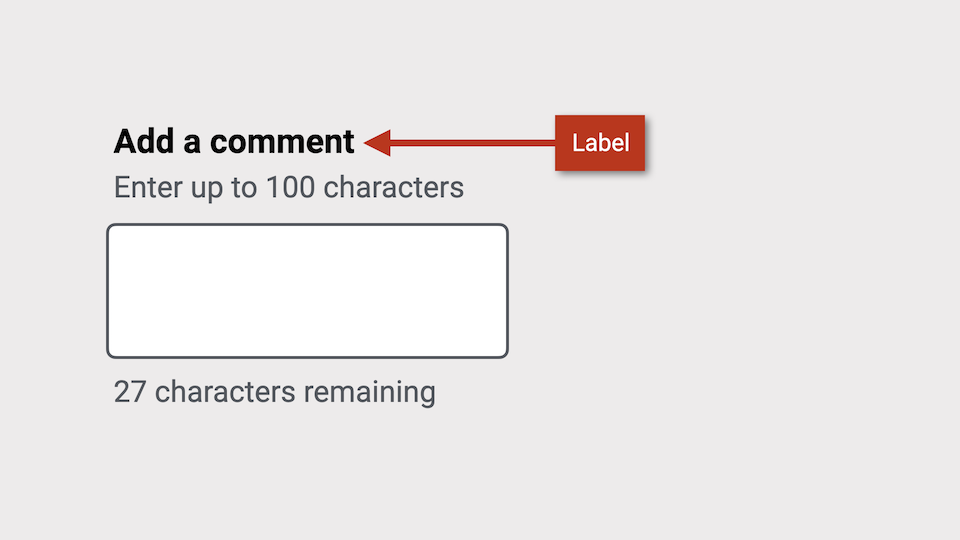
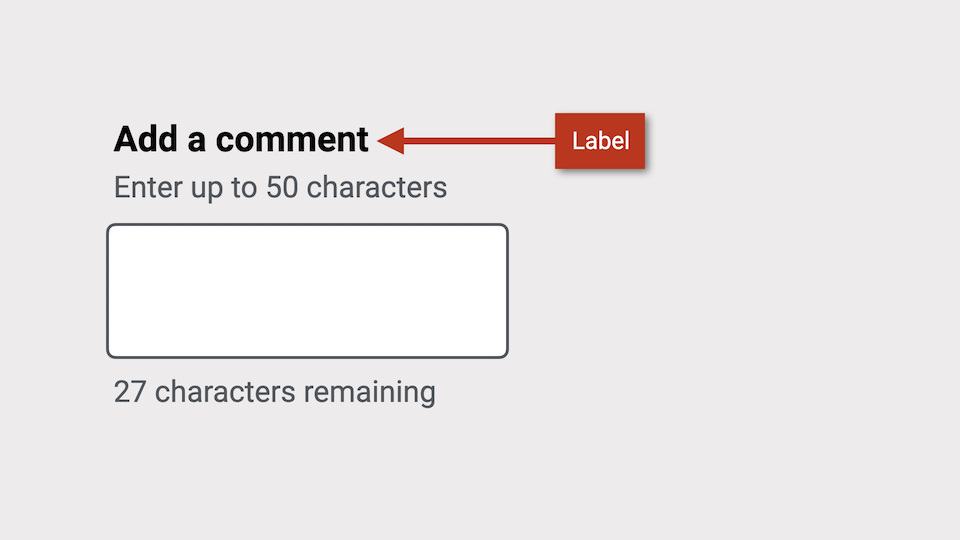
Adjust all

Changed region(s): [[0.125, 0.2074, 0.6875, 0.3259], [0.2812, 0.3259, 0.5, 0.3852]]

diff --git a/2024-accessu.html b/2024-accessu.html
@@ -229,27 +229,23 @@
           </section>
 
           <section data-background="#EDEBEB">
-            <p>2. The component is <b>easy to use</b>.</p>
+            <p>2. All labels, instructions and error messages are <b>meaningful</b>.</p>
           </section>
 
           <section data-background="#EDEBEB">
-            <p>3. All labels, instructions and error messages are <b>meaningful</b>.</p>
+            <p>3. All labels, instructions and error messages are <b>persistent</b>.</p>
           </section>
 
           <section data-background="#EDEBEB">
-            <p>4. All labels, instructions and error messages are <b>persistent</b>.</p>
+            <p>4. If users make a mistake, they can <b>recover quickly</b>.</p>
           </section>
 
           <section data-background="#EDEBEB">
-            <p>5. If users make a mistake, they can <b>recover quickly</b>.</p>
+            <p>5. Users are provided with feedback on <b>the number of characters remaining</b>.</p>
           </section>
 
           <section data-background="#EDEBEB">
-            <p>6. Users are provided with feedback on <b>the number of characters remaining</b>.</p>
-          </section>
-
-          <section data-background="#EDEBEB">
-            <p>7. Users are provided with feedback <b>when the character number has been exceeded</b>.</p>
+            <p>6. Users are provided with feedback <b>when the character number has been exceeded</b>.</p>
           </section>
 
           <section data-background="#EDEBEB">
@@ -473,7 +469,7 @@
   Add a comment
 &lt;/label&gt;
 <span class="codeHighlight">&lt;span class="help-text"&gt;
-  Enter up to 100 characters
+  Enter up to 50 characters
 &lt;/span&gt;</span></code></pre>
           </section>
 
@@ -487,7 +483,7 @@
   Add a comment
 &lt;/label&gt;
 &lt;span class="help-text"&gt;
-  Enter up to 100 characters
+  Enter up to 50 characters
 &lt;/span&gt;
 <span class="codeHighlight">&lt;textarea class="input"&gt;
 &lt;/textarea&gt;</span></code></pre>
@@ -503,7 +499,7 @@
   Add a comment
 &lt;/label&gt;
 &lt;span class="help-text"&gt;
-  Enter up to 100 characters
+  Enter up to 50 characters
 &lt;/span&gt;
 &lt;textarea class="input" <span class="codeHighlight">id="b1"</span>&gt;
 &lt;/textarea&gt;</code></pre>
@@ -523,7 +519,7 @@
   Add a comment
 &lt;/label&gt;
 &lt;span class="help-text" <span class="codeHighlight">id="a1"</span>&gt;
-  Enter up to 100 characters
+  Enter up to 50 characters
 &lt;/span&gt;
 &lt;textarea class="input" id="b1" <span class="codeHighlight">aria-describedby="a1"</span>&gt;
 &lt;/textarea&gt;</code></pre>
@@ -546,10 +542,10 @@
   Add a comment
 &lt;/label&gt;
 &lt;span class="help-text" id="a1"&gt;
-  Enter up to 100 characters
+  Enter up to 50 characters
 &lt;/span&gt;
 &lt;textarea class="input" id="b1" aria-describedby="a1"
-  <span class="codeHighlight">maxlength="100"</span>&gt;
+  <span class="codeHighlight">maxlength="50"</span>&gt;
 &lt;/textarea&gt;</code></pre>
           </section>
 
@@ -579,7 +575,7 @@
   Add a comment
 &lt;/label&gt;
 &lt;span class="help-text" id="a1"&gt;
-  Enter up to 100 characters
+  Enter up to 50 characters
 &lt;/span&gt;
 &lt;textarea class="input" id="b1" aria-describedby="a1"&gt;
 &lt;/textarea&gt;
@@ -605,7 +601,7 @@
   Add a comment
 &lt;/label&gt;
 &lt;span class="help-text" id="a1"&gt;
-  Enter up to 100 characters
+  Enter up to 50 characters
 &lt;/span&gt;
 &lt;textarea class="input" id="b1" aria-describedby="a1"&gt;
 &lt;/textarea&gt;
@@ -644,7 +640,7 @@
   Add a comment
 &lt;/label&gt;
 &lt;span class="help-text" id="a1"&gt;
-  Enter up to 100 characters
+  Enter up to 50 characters
 &lt;/span&gt;
 &lt;textarea class="input" id="b1" aria-describedby="a1"&gt;
 &lt;/textarea&gt;
@@ -667,7 +663,7 @@
   Add a comment
 &lt;/label&gt;
 &lt;span class="help-text" id="a1"&gt;
-  Enter up to 100 characters
+  Enter up to 50 characters
 &lt;/span&gt;
 &lt;textarea class="input" id="b1" aria-describedby="a1"&gt;
 &lt;/textarea&gt;
@@ -689,7 +685,7 @@
   Add a comment
 &lt;/label&gt;
 &lt;span class="help-text" id="a1"&gt;
-  Enter up to 100 characters
+  Enter up to 50 characters
 &lt;/span&gt;
 &lt;textarea class="input" id="b1" aria-describedby="a1"&gt;
 &lt;/textarea&gt;
@@ -730,7 +726,7 @@
   Add a comment
 &lt;/label&gt;
 &lt;span class="help-text" id="a1"&gt;
-  Enter up to 100 characters
+  Enter up to 50 characters
 &lt;/span&gt;
 &lt;textarea class="input" id="b1" aria-describedby="a1"&gt;
 &lt;/textarea&gt;
@@ -778,15 +774,9 @@
           <section data-background="#EDEBEB">
             <ul class="icon-list font-sm">
               <li><span aria-hidden="true" class="icon icon-check"></span>The purpose of the component is clear.</li>
-              <li><span aria-hidden="true" class="icon icon-check"></span>The component is easy to use.</li>
               <li><span aria-hidden="true" class="icon icon-check"></span>All labels, instructions and error messages are meaningful.</li>
               <li><span aria-hidden="true" class="icon icon-check"></span>All labels, instructions and error messages are persistent.</li>
-              <li><span aria-hidden="true" class="icon icon-check"></span>If users make a mistake, they can quickly and easily recover.</li>
-            </ul>
-          </section>
-
-          <section data-background="#EDEBEB">
-            <ul class="icon-list font-sm">
+              <li><span aria-hidden="true" class="icon icon-check"></span>If users make a mistake, they can recover quickly.</li>
               <li><span aria-hidden="true" class="icon icon-check"></span>Users are provided with feedback on the number of characters remaining.</li>
               <li><span aria-hidden="true" class="icon icon-check"></span>Users are provided with feedback when the character number has been exceeded.</li>
             </ul>
@@ -858,11 +848,6 @@
               <li><span aria-hidden="true" class="icon icon-check"></span>The form control has an accessible name.</li>
               <li><span aria-hidden="true" class="icon icon-check"></span>The form control has a meaningful role.</li>
               <li><span aria-hidden="true" class="icon icon-check"></span>All relevant labels, instructions and error messages are programmatically associated with the form control.</li>
-            </ul>
-          </section>
-
-          <section data-background="#EDEBEB">
-            <ul class="icon-list font-sm">
               <li><span aria-hidden="true" class="icon icon-check"></span>Users are provided with feedback on the number of characters remaining - at appropriate times.</li>
               <li><span aria-hidden="true" class="icon icon-check"></span>Users are provided with feedback when the character number has been exceeded - at appropriate times.</li>
             </ul>
